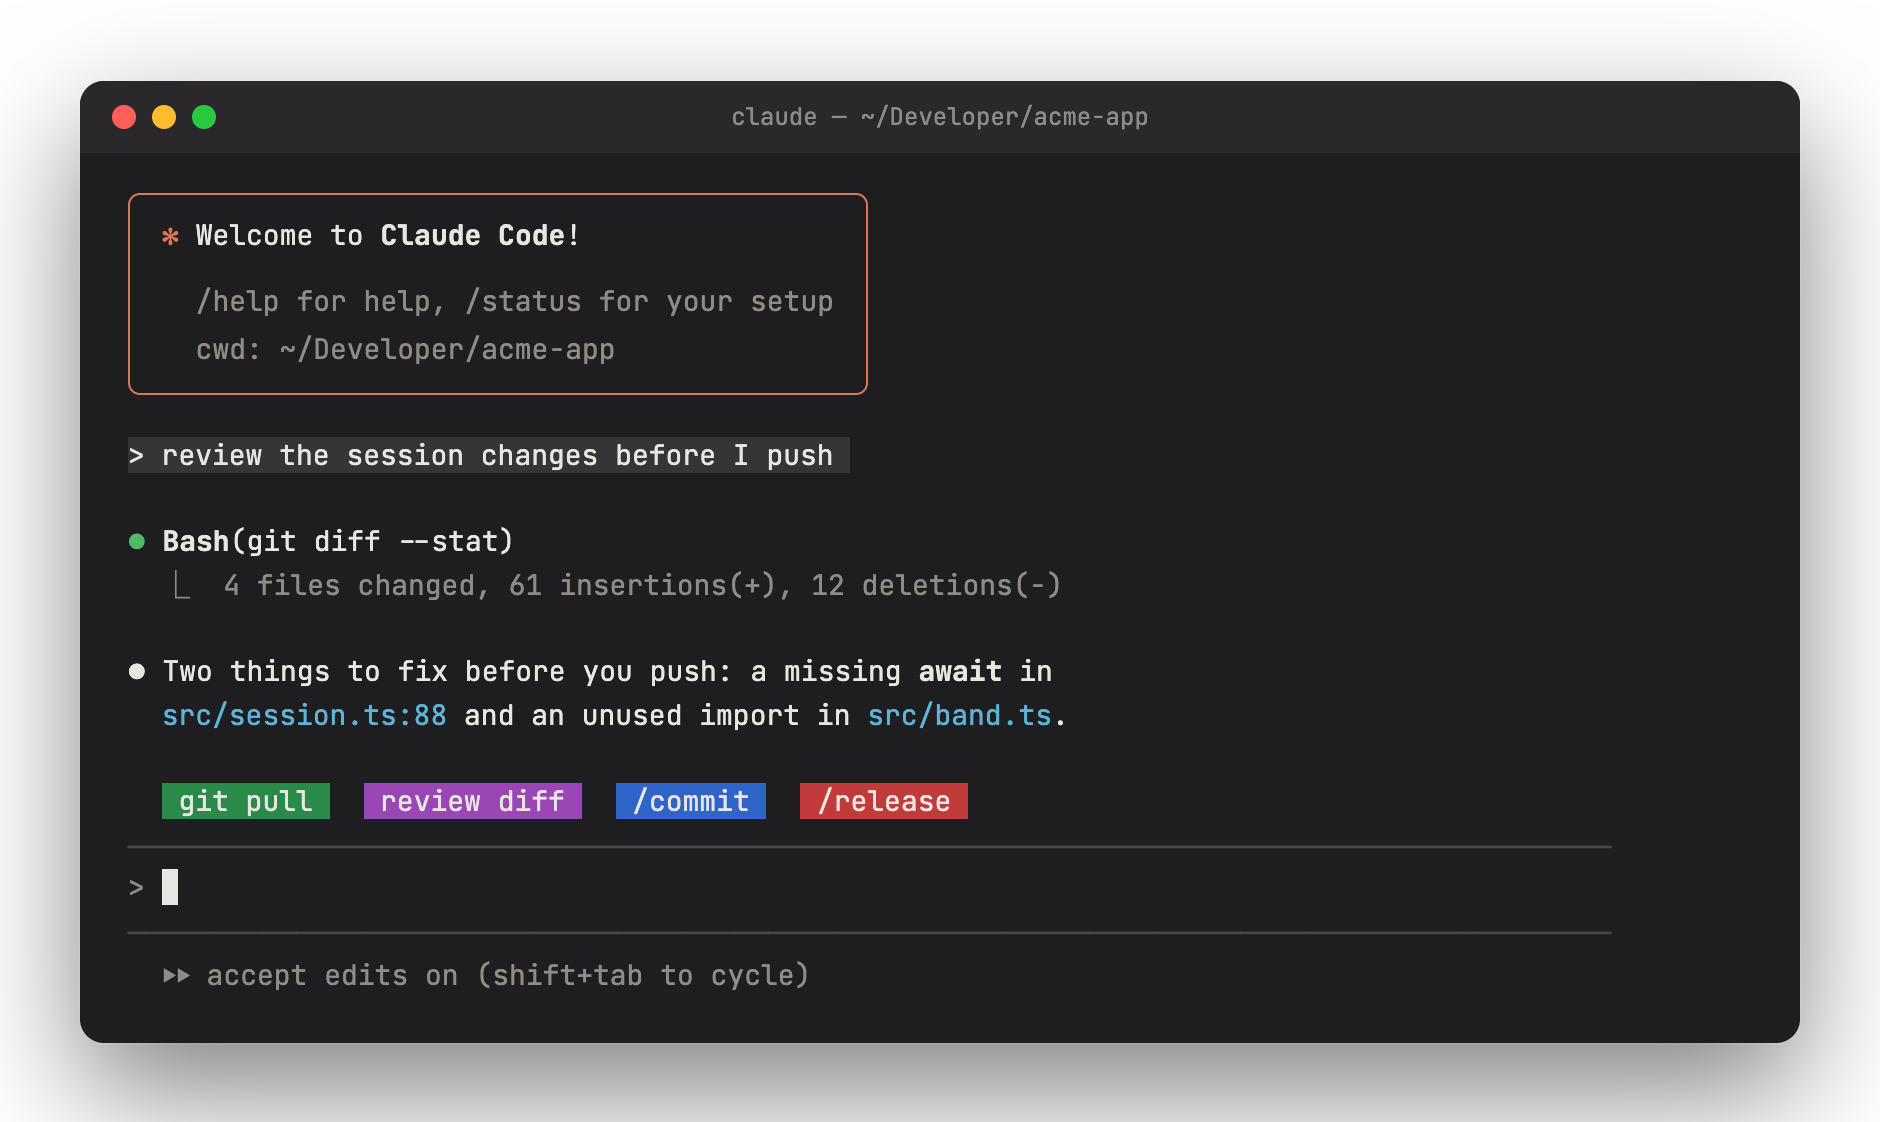
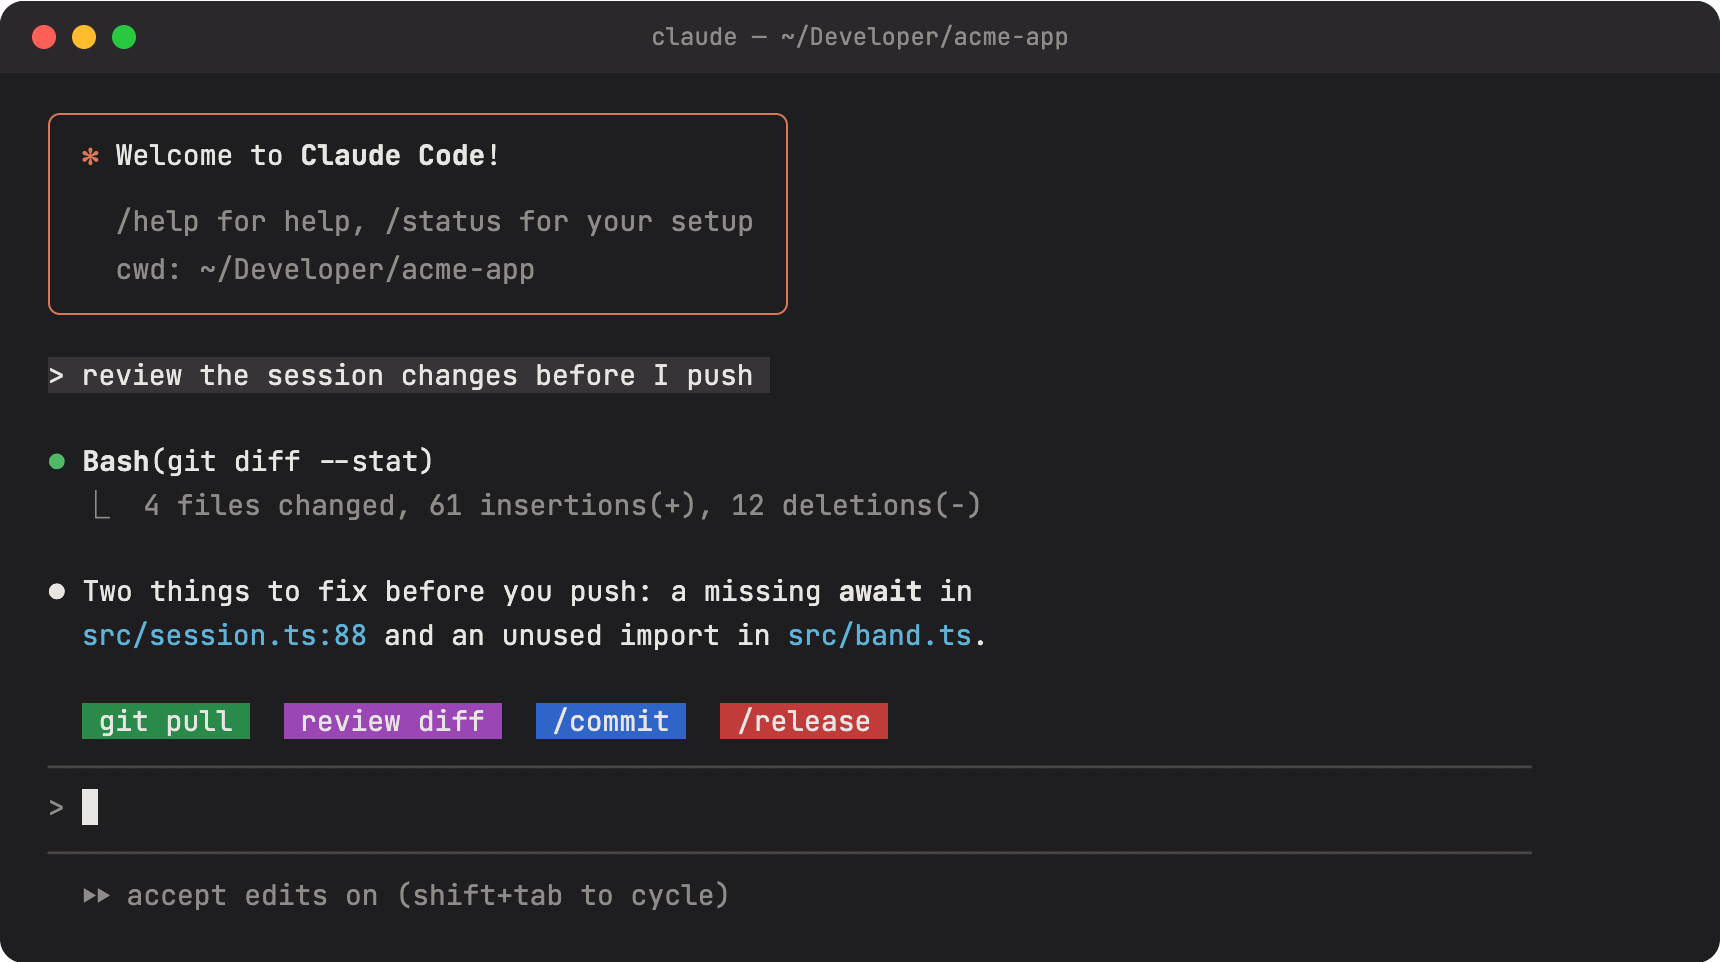
fix: make the README screenshot fully transparent

diff --git a/assets/screenshot.html b/assets/screenshot.html
@@ -97,6 +97,8 @@
   .red { background: var(--red); }
   /* For the README image: no backdrop, so the window sits on GitHub's own background in either theme. */
   .transparent, .transparent body { background: transparent; }
+  /* A shadow would end in a hard edge where the image is cut, so the window carries only its outline. */
+  .transparent .window { box-shadow: 0 0 0 1px #ffffff14; }
 </style>
 <script>
   if (location.hash === "#transparent") document.documentElement.classList.add("transparent");
